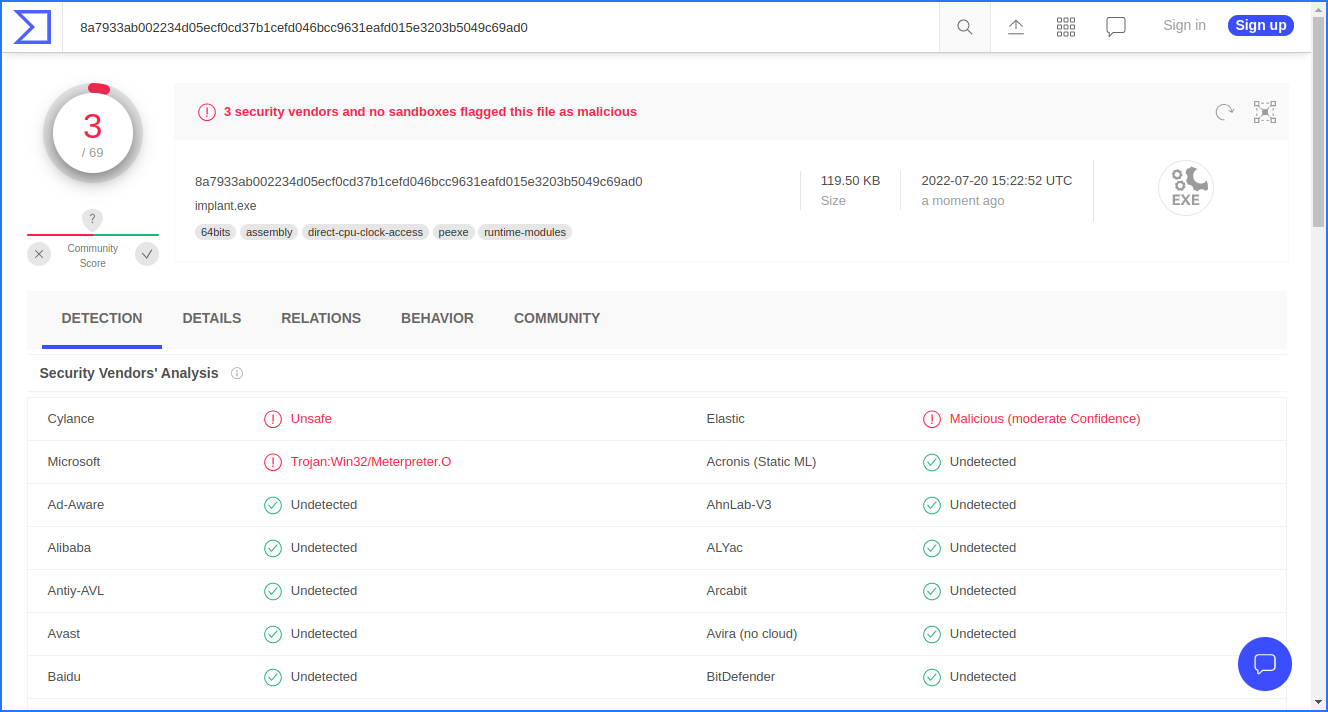
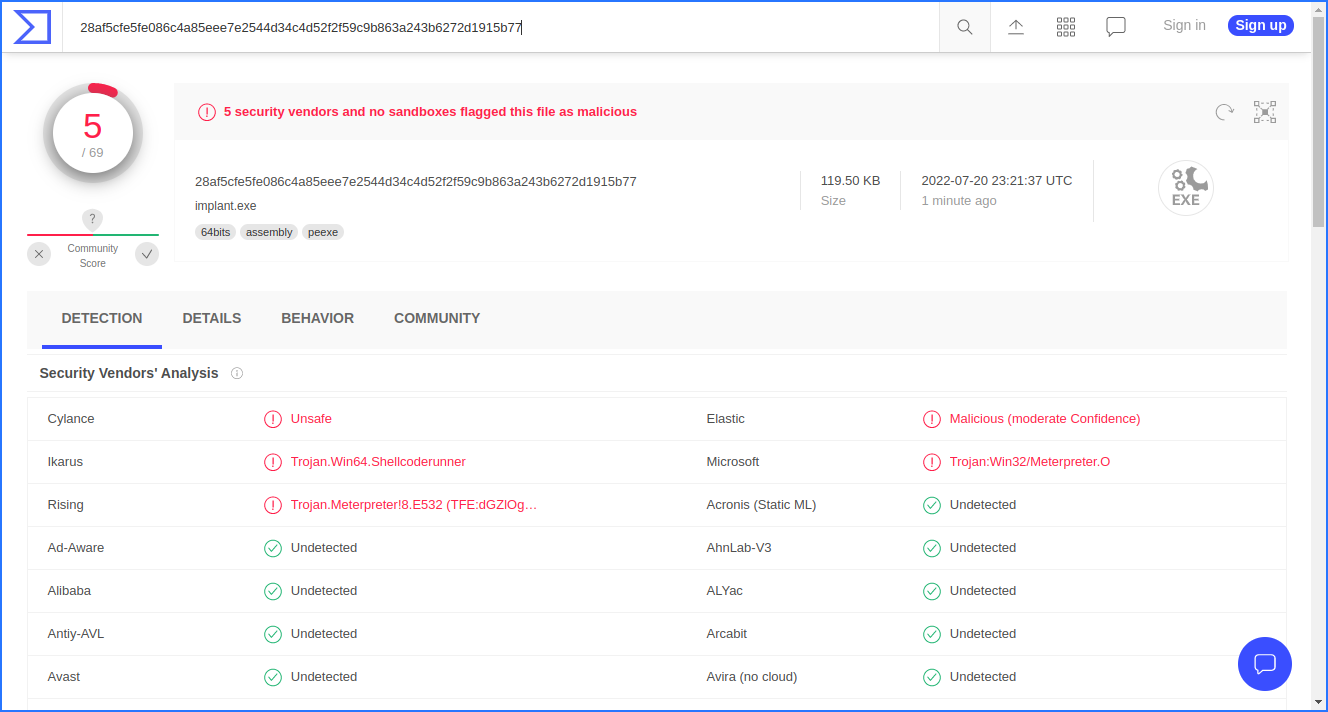
Minor Typo

diff --git a/README.md b/README.md
@@ -48,8 +48,8 @@ Or, it is better explained by this diagram:
 
 ![](images/algorithm.png)
 
-Anyways, we encode our payload with this, decode it at runtime, pop that `calc.exe`. This, in turn, halves the detection rate.
+Anyways, we encode our payload with this, decode it at runtime, pop that `calc.exe`. This, in turn, _slightly_ the detection rate.
 
-#### VirusTotal Score: **3/69 (Nice)**
+#### VirusTotal Score: **5/69 (Nice)**
 
 ![](images/5.png)
